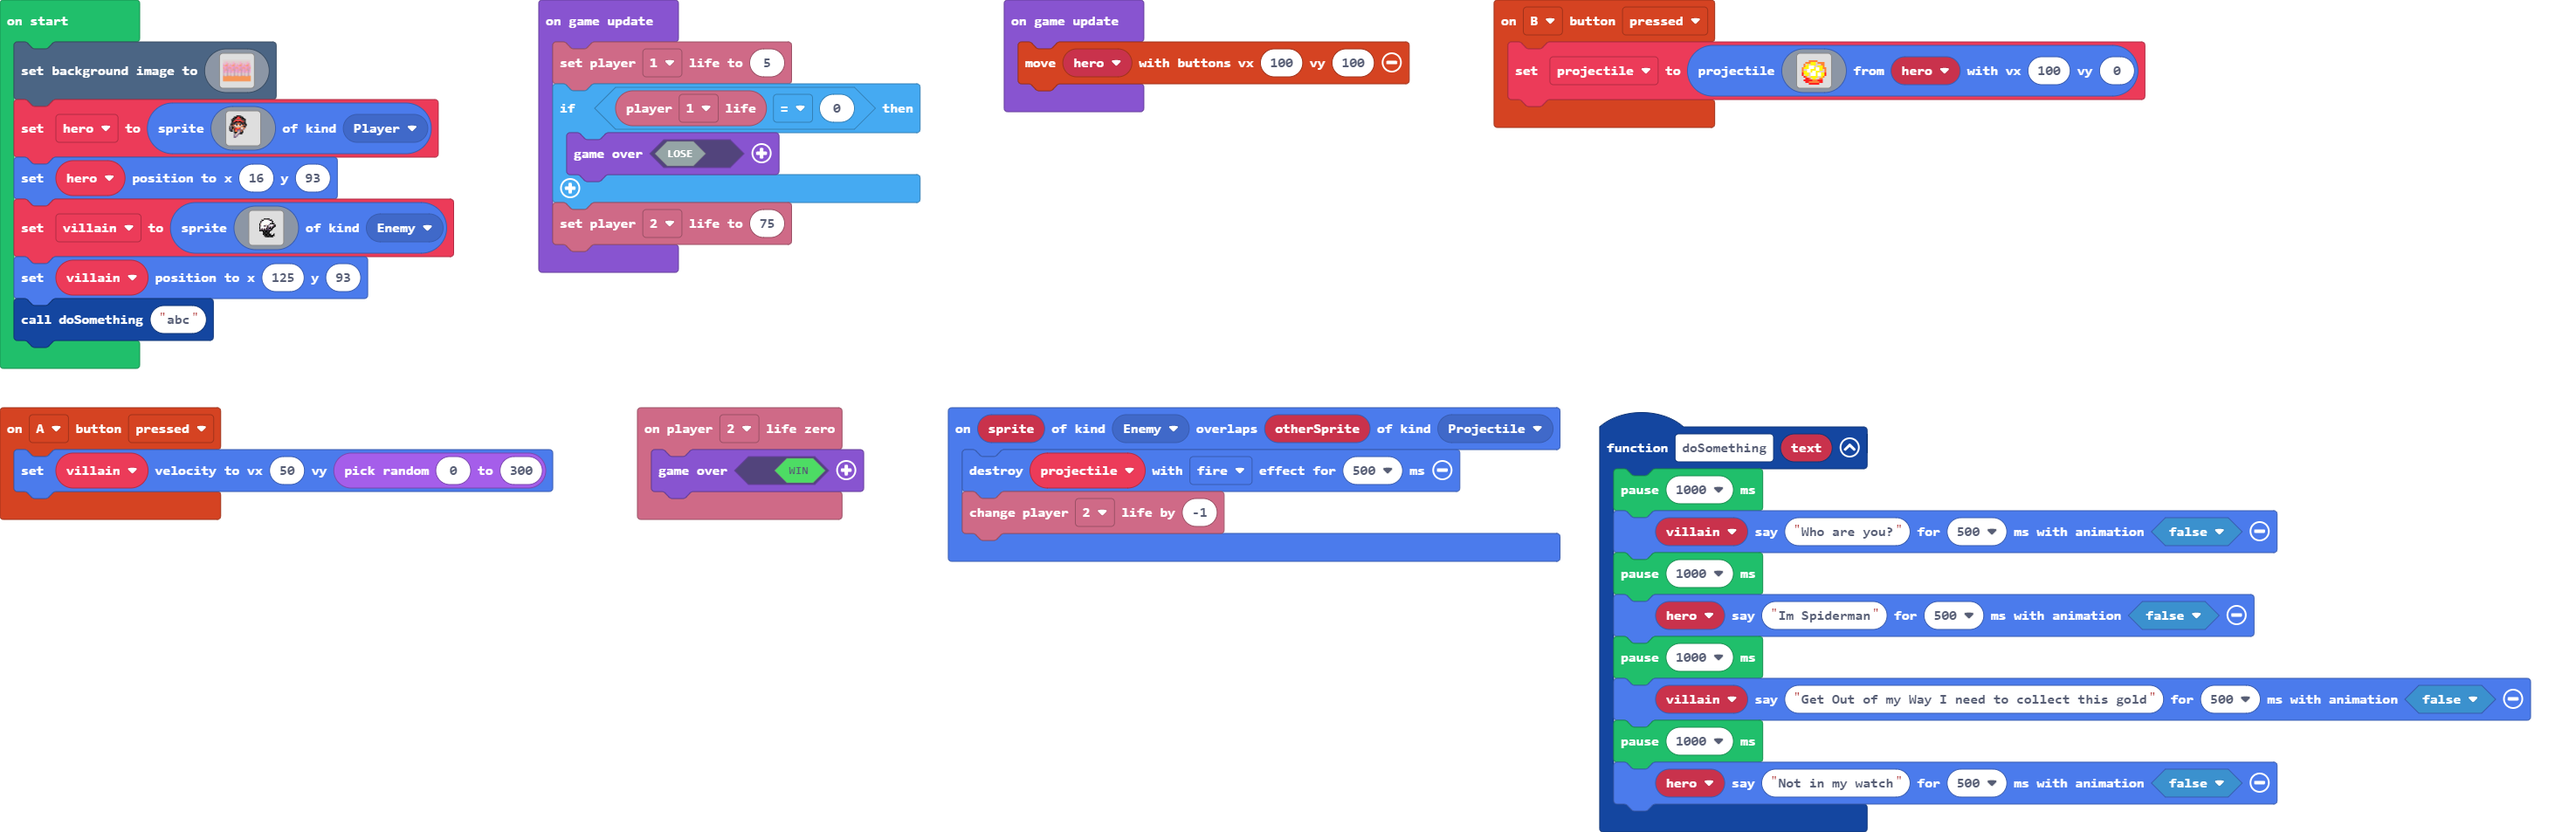
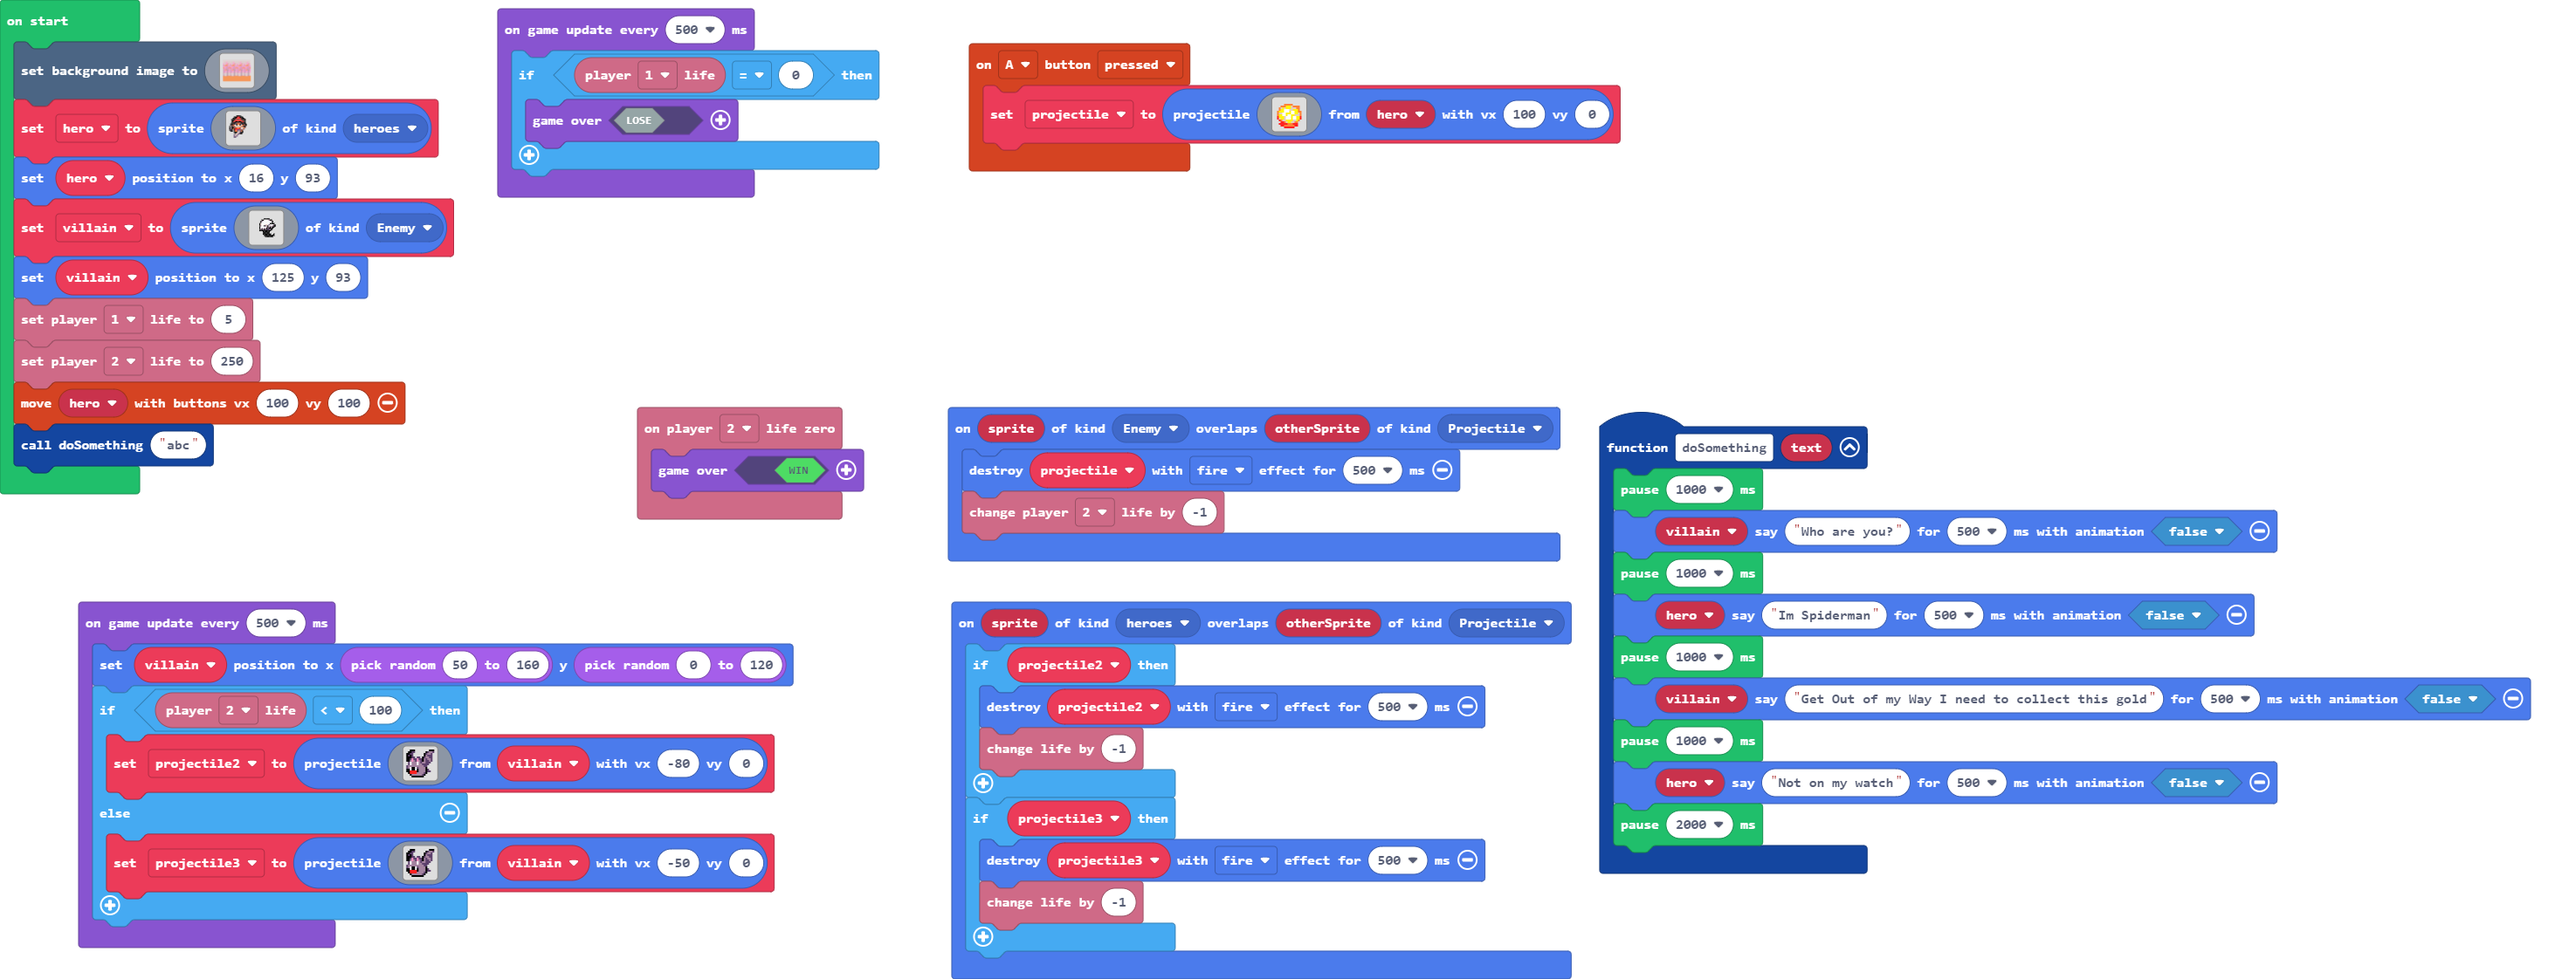
Update main.blocks, main.ts

diff --git a/main.ts b/main.ts
@@ -1,4 +1,7 @@
-controller.B.onEvent(ControllerButtonEvent.Pressed, function () {
+namespace SpriteKind {
+    export const heroes = SpriteKind.create()
+}
+controller.A.onEvent(ControllerButtonEvent.Pressed, function () {
     projectile = sprites.createProjectileFromSprite(img`
         . . . . . . . . . . . . . . . . 
         . . . . . . . . . . . . . . . . 
@@ -18,12 +21,19 @@ controller.B.onEvent(ControllerButtonEvent.Pressed, function () {
         . . . . . 2 2 2 2 2 2 . . . . . 
         `, hero, 100, 0)
 })
-controller.A.onEvent(ControllerButtonEvent.Pressed, function () {
-    villain.setVelocity(50, randint(0, 300))
-})
 sprites.onOverlap(SpriteKind.Enemy, SpriteKind.Projectile, function (sprite, otherSprite) {
     projectile.destroy(effects.fire, 500)
     info.player2.changeLifeBy(-1)
+})
+sprites.onOverlap(SpriteKind.heroes, SpriteKind.Projectile, function (sprite, otherSprite) {
+    if (projectile2) {
+        projectile2.destroy(effects.fire, 500)
+        info.changeLifeBy(-1)
+    }
+    if (projectile3) {
+        projectile3.destroy(effects.fire, 500)
+        info.changeLifeBy(-1)
+    }
 })
 function doSomething (text: string) {
     pause(1000)
@@ -33,11 +43,14 @@ function doSomething (text: string) {
     pause(1000)
     villain.sayText("Get Out of my Way I need to collect this gold", 500, false)
     pause(1000)
-    hero.sayText("Not in my watch", 500, false)
+    hero.sayText("Not on my watch", 500, false)
+    pause(2000)
 }
 info.player2.onLifeZero(function () {
     game.over(true)
 })
+let projectile3: Sprite = null
+let projectile2: Sprite = null
 let projectile: Sprite = null
 let villain: Sprite = null
 let hero: Sprite = null
@@ -188,7 +201,7 @@ hero = sprites.create(img`
     ........................
     ........................
     ........................
-    `, SpriteKind.Player)
+    `, SpriteKind.heroes)
 hero.setPosition(16, 93)
 villain = sprites.create(img`
     ........................
@@ -217,14 +230,54 @@ villain = sprites.create(img`
     ........................
     `, SpriteKind.Enemy)
 villain.setPosition(125, 93)
+info.player1.setLife(5)
+info.player2.setLife(250)
+controller.moveSprite(hero, 100, 100)
 doSomething("abc")
-game.onUpdate(function () {
-    info.player1.setLife(5)
+game.onUpdateInterval(500, function () {
     if (info.player1.life() == 0) {
         game.over(false)
     }
-    info.player2.setLife(75)
 })
-game.onUpdate(function () {
-    controller.moveSprite(hero, 100, 100)
+game.onUpdateInterval(500, function () {
+    villain.setPosition(randint(50, 160), randint(0, 120))
+    if (info.player2.life() < 100) {
+        projectile2 = sprites.createProjectileFromSprite(img`
+            . . f f f . . . . . . . . f f f 
+            . f f c c . . . . . . f c b b c 
+            f f c c . . . . . . f c b b c . 
+            f c f c . . . . . . f b c c c . 
+            f f f c c . c c . f c b b c c . 
+            f f c 3 c c 3 c c f b c b b c . 
+            f f b 3 b c 3 b c f b c c b c . 
+            . c 1 b b b 1 b c b b c c c . . 
+            . c 1 b b b 1 b b c c c c . . . 
+            c b b b b b b b b b c c . . . . 
+            c b 1 f f 1 c b b b b f . . . . 
+            f f 1 f f 1 f b b b b f c . . . 
+            f f 2 2 2 2 f b b b b f c c . . 
+            . f 2 2 2 2 b b b b c f . . . . 
+            . . f b b b b b b c f . . . . . 
+            . . . f f f f f f f . . . . . . 
+            `, villain, -80, 0)
+    } else {
+        projectile3 = sprites.createProjectileFromSprite(img`
+            . . f f f . . . . . . . . f f f 
+            . f f c c . . . . . . f c b b c 
+            f f c c . . . . . . f c b b c . 
+            f c f c . . . . . . f b c c c . 
+            f f f c c . c c . f c b b c c . 
+            f f c 3 c c 3 c c f b c b b c . 
+            f f b 3 b c 3 b c f b c c b c . 
+            . c 1 b b b 1 b c b b c c c . . 
+            . c 1 b b b 1 b b c c c c . . . 
+            c b b b b b b b b b c c . . . . 
+            c b 1 f f 1 c b b b b f . . . . 
+            f f 1 f f 1 f b b b b f c . . . 
+            f f 2 2 2 2 f b b b b f c c . . 
+            . f 2 2 2 2 b b b b c f . . . . 
+            . . f b b b b b b c f . . . . . 
+            . . . f f f f f f f . . . . . . 
+            `, villain, -50, 0)
+    }
 })
